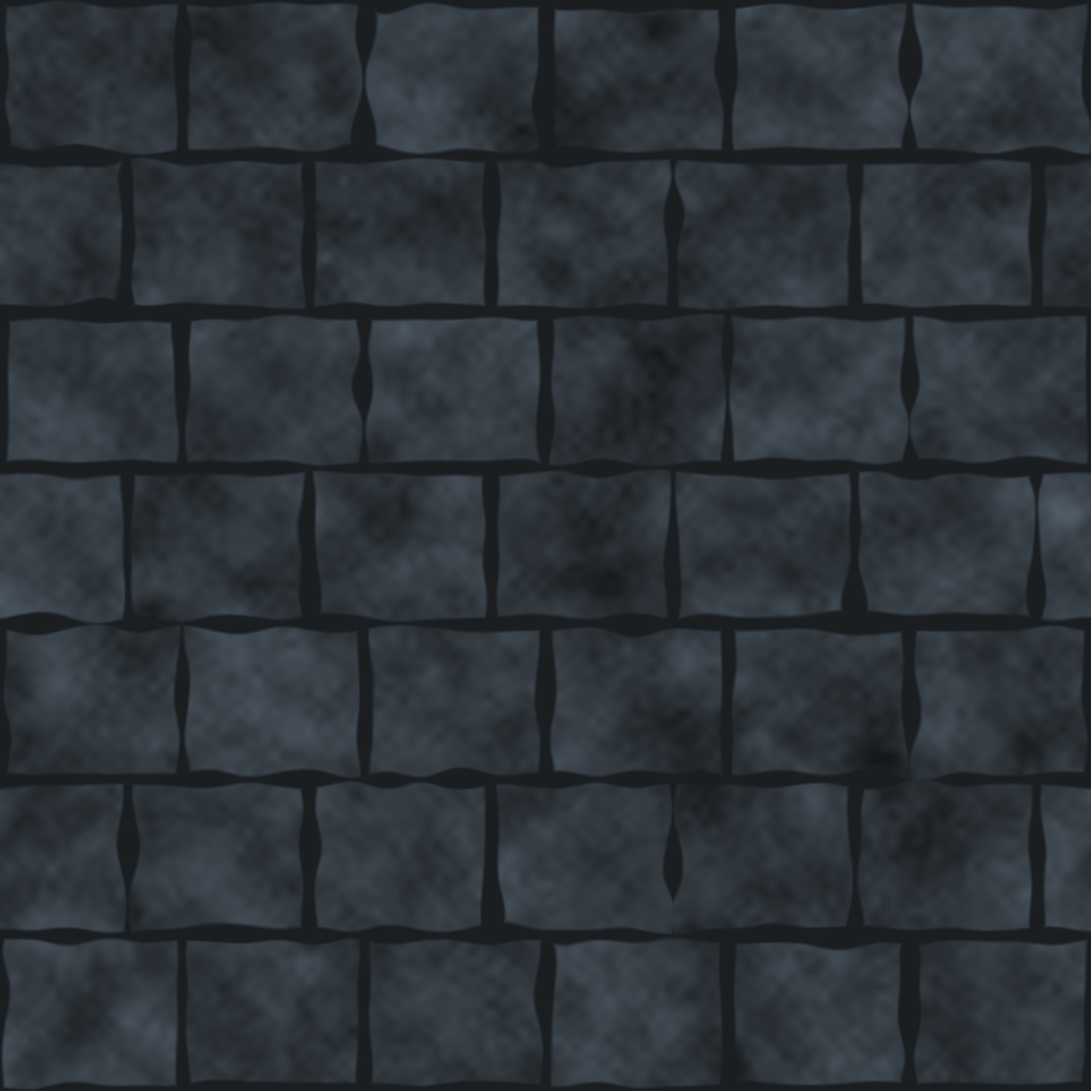
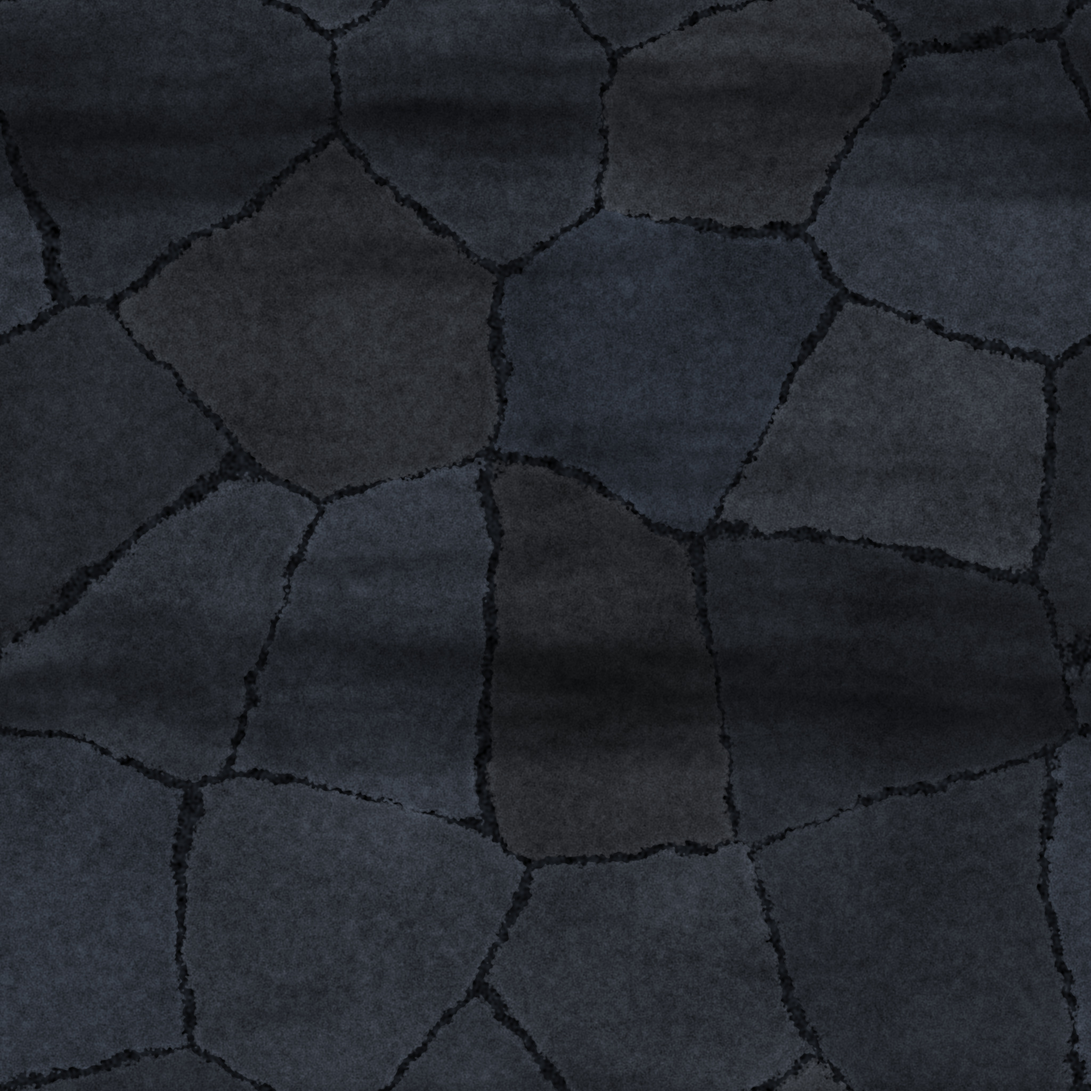
Gothic V3 : nouvelles textures de pierre (murs, sol, plafond) tileables à 4 u, avec leur générateur

diff --git a/tools/gen_gothic_textures.py b/tools/gen_gothic_textures.py
@@ -1,0 +1,247 @@
+#!/usr/bin/env python3
+"""Génère les textures PBR du thème gothic (V3) : wall / floor / ceil, en gothic_hd (2048) et gothic_lite (1024).
+
+Chaque tuile couvre exactement 4 × 4 unités (une case) et se raccorde à elle-même dans les deux sens : tout le bruit est périodique
+(spectre de Fourier) et la maçonnerie est calculée modulo la taille de la tuile.
+Albédo JPG (sRGB), normale PNG (OpenGL, Y+), ORM JPG (R = occlusion, G = rugosité, B = métal).
+
+Ce sont des textures PROCÉDURALES : elles remplacent les anciennes (grille de briques régulière, joints épais, raccord visible),
+mais elles ne remplacent pas un vrai travail de texturage manuel. Voir assets/themes/gothic_LISEZMOI.md.
+Usage : python3 tools/gen_gothic_textures.py [dossier_assets_themes]
+"""
+import sys
+import numpy as np
+from PIL import Image
+from scipy.ndimage import gaussian_filter
+
+N = 2048
+PPU = N / 4.0          # pixels par unité de jeu (une tuile = 4 u)
+
+
+def fbm(n, beta, seed, lo=1.0, hi=None, ax=1.0):
+    """Bruit périodique de spectre 1/f^beta, moyenne 0, écart-type 1. ax > 1 : structures étirées verticalement."""
+    rng = np.random.default_rng(seed)
+    fy = np.fft.fftfreq(n)[:, None] * n
+    fx = np.fft.rfftfreq(n)[None, :] * n * ax
+    f = np.sqrt(fx * fx + fy * fy)
+    amp = np.zeros_like(f)
+    ok = f >= lo
+    if hi is not None:
+        ok &= f <= hi
+    amp[ok] = f[ok] ** (-beta)
+    ph = rng.uniform(0, 2 * np.pi, f.shape)
+    out = np.fft.irfft2(amp * np.exp(1j * ph), s=(n, n))
+    out -= out.mean()
+    return (out / out.std()).astype(np.float32)
+
+
+def smooth(x, a=0.0, b=1.0):
+    t = np.clip((x - a) / (b - a), 0.0, 1.0)
+    return t * t * (3 - 2 * t)
+
+
+def course_edges(rng, total, lo, hi):
+    """Bords irréguliers sur un cercle de longueur total (somme exacte)."""
+    sizes = []
+    t = 0.0
+    while t < total:
+        s = rng.uniform(lo, hi)
+        sizes.append(s)
+        t += s
+    sizes = np.array(sizes) * total / sum(sizes)
+    return np.concatenate([[0.0], np.cumsum(sizes)[:-1]]), sizes
+
+
+def masonry(n, rng, wx, wy):
+    """Appareil de grosses pierres irrégulières. Renvoie (distance au bord, id de bloc, u, v dans le bloc)."""
+    ppu = n / 4.0
+    yy = (np.arange(n)[:, None] + wy) % n
+    xx = (np.arange(n)[None, :] + wx) % n
+    yy = np.broadcast_to(yy, (n, n)).astype(np.float32)
+    xx = np.broadcast_to(xx, (n, n)).astype(np.float32)
+    cedges, csizes = course_edges(rng, n, 0.40 * ppu, 0.66 * ppu)
+    dist = np.zeros((n, n), np.float32)
+    bid = np.zeros((n, n), np.int32)
+    bu = np.zeros((n, n), np.float32)
+    bv = np.zeros((n, n), np.float32)
+    ci = np.searchsorted(cedges, yy, side="right") - 1
+    counter = 0
+    for c in range(len(cedges)):
+        y0, y1 = cedges[c], cedges[c] + csizes[c]
+        be, _ = course_edges(rng, n, 0.80 * ppu, 1.70 * ppu)
+        be = np.sort((be + rng.uniform(0, n)) % n)
+        m = ci == c
+        x = xx[m]
+        y = yy[m]
+        bi = np.searchsorted(be, x, side="right") - 1
+        left = np.where(bi >= 0, be[np.clip(bi, 0, None)], be[-1] - n)
+        nxt = np.where(bi + 1 < len(be), be[np.clip(bi + 1, None, len(be) - 1)], be[0] + n)
+        d = np.minimum.reduce([x - left, nxt - x, y - y0, y1 - y])
+        dist[m] = d
+        bid[m] = counter + np.where(bi >= 0, bi, len(be) - 1)
+        bu[m] = (x - left) / np.maximum(nxt - left, 1)
+        bv[m] = (y - y0) / (y1 - y0)
+        counter += len(be)
+    return dist, bid, bu, bv, counter
+
+
+def voronoi(n, rng, g, wx, wy, jitter=0.38):
+    """Dalles irrégulières (cellules de Voronoï périodiques, g × g). Renvoie (distance au joint, id, u, v)."""
+    cs = n / g
+    pts = np.zeros((g, g, 2), np.float32)
+    for i in range(g):
+        for j in range(g):
+            pts[i, j] = ((j + 0.5 + rng.uniform(-jitter, jitter)) * cs, (i + 0.5 + rng.uniform(-jitter, jitter)) * cs)
+    yy = ((np.arange(n)[:, None] + wy) % n).astype(np.float32)
+    xx = ((np.arange(n)[None, :] + wx) % n).astype(np.float32)
+    yy = np.broadcast_to(yy, (n, n))
+    xx = np.broadcast_to(xx, (n, n))
+    ci = np.floor(yy / cs).astype(np.int32)
+    cj = np.floor(xx / cs).astype(np.int32)
+    f1 = np.full((n, n), 1e9, np.float32)
+    f2 = np.full((n, n), 1e9, np.float32)
+    idm = np.zeros((n, n), np.int32)
+    px = np.zeros((n, n), np.float32)
+    py = np.zeros((n, n), np.float32)
+    for di in (-2, -1, 0, 1, 2):
+        for dj in (-2, -1, 0, 1, 2):
+            ii = ci + di
+            jj = cj + dj
+            wxo = np.where(jj < 0, -n, np.where(jj >= g, n, 0)).astype(np.float32)
+            wyo = np.where(ii < 0, -n, np.where(ii >= g, n, 0)).astype(np.float32)
+            p = pts[ii % g, jj % g]
+            qx = p[..., 0] + wxo
+            qy = p[..., 1] + wyo
+            d = np.hypot(xx - qx, yy - qy)
+            better = d < f1
+            second = (~better) & (d < f2)
+            f2 = np.where(better, f1, np.where(second, d, f2))
+            idm = np.where(better, (ii % g) * g + (jj % g), idm)
+            px = np.where(better, qx, px)
+            py = np.where(better, qy, py)
+            f1 = np.where(better, d, f1)
+    dist = (f2 - f1) * 0.5
+    u = np.clip((xx - px) / cs * 0.5 + 0.5, 0, 1)
+    v = np.clip((yy - py) / cs * 0.5 + 0.5, 0, 1)
+    return dist.astype(np.float32), idm, u.astype(np.float32), v.astype(np.float32), g * g
+
+
+def per_block(rng, count, sd):
+    return rng.normal(0.0, sd, count).astype(np.float32)
+
+
+def down(a, k):
+    if k == 1:
+        return a
+    n = a.shape[0] // k
+    return a.reshape(n, k, n, k, *a.shape[2:]).mean(axis=(1, 3))
+
+
+def normal_map(h, strength, n):
+    hs = gaussian_filter(h, 0.7 * n / N, mode="wrap")
+    gx = (np.roll(hs, -1, 1) - np.roll(hs, 1, 1)) * 0.5
+    gr = (np.roll(hs, -1, 0) - np.roll(hs, 1, 0)) * 0.5
+    s = strength * n / N * (N / 2048.0)
+    nx = -gx * s
+    ny = gr * s       # OpenGL (Y+) : v vers le haut = lignes vers le haut de l'image
+    nz = np.ones_like(nx)
+    ln = np.sqrt(nx * nx + ny * ny + nz * nz)
+    out = np.stack([nx / ln, ny / ln, nz / ln], -1)
+    return ((out * 0.5 + 0.5) * 255).clip(0, 255).astype(np.uint8)
+
+
+def to_u8(a):
+    return (a.clip(0, 1) * 255 + 0.5).astype(np.uint8)
+
+
+def build(part, seed):
+    rng = np.random.default_rng(seed)
+    n = N
+    wlo = fbm(n, 1.6, seed + 1, lo=2, hi=40)
+    wx = wlo * 10.0 + fbm(n, 1.0, seed + 2, lo=20, hi=300) * 2.5
+    wy = fbm(n, 1.6, seed + 3, lo=2, hi=40) * 10.0 + fbm(n, 1.0, seed + 4, lo=20, hi=300) * 2.5
+    mid = fbm(n, 1.5, seed + 5, lo=3, hi=60)
+    fine = fbm(n, 1.0, seed + 6, lo=30, hi=260)
+    grain = fbm(n, 0.4, seed + 7, lo=100, hi=420)
+    streak = fbm(n, 1.6, seed + 8, lo=2, hi=60, ax=7.0)
+    crackn = fbm(n, 1.8, seed + 9, lo=2, hi=24)
+    crackm = fbm(n, 1.5, seed + 10, lo=2, hi=12)
+    speck = fbm(n, 0.2, seed + 12, lo=150, hi=500)
+    if part == "wall":
+        dist, bid, u, v, cnt = masonry(n, rng, wx, wy)
+        joint_half, bevel, relief, tilt_k = 4.6, 30.0, 0.55, 0.10
+        base, tone_sd, strength = np.array([0.238, 0.252, 0.272]), 0.16, 14.0
+    elif part == "floor":
+        dist, bid, u, v, cnt = voronoi(n, rng, 6, wx, wy)
+        joint_half, bevel, relief, tilt_k = 4.2, 26.0, 0.50, 0.08
+        base, tone_sd, strength = np.array([0.215, 0.228, 0.245]), 0.13, 11.0
+    else:
+        dist, bid, u, v, cnt = voronoi(n, rng, 4, wx, wy, jitter=0.42)
+        joint_half, bevel, relief, tilt_k = 7.0, 46.0, 0.95, 0.18
+        base, tone_sd, strength = np.array([0.165, 0.180, 0.205]), 0.15, 24.0
+    tone = np.clip(np.exp(per_block(rng, cnt, tone_sd)), 0.74, 1.12)
+    hue = per_block(rng, cnt, 0.035)
+    tiltx = per_block(rng, cnt, 1.0)
+    tilty = per_block(rng, cnt, 1.0)
+    dome = np.abs(per_block(rng, cnt, 0.5)) + 0.15
+    rgh = per_block(rng, cnt, 0.05)
+    t = tone[bid]
+    d = dist + mid * 2.8 + fine * 1.2          # bords ébréchés, non rectilignes
+    s = smooth(d, joint_half, joint_half + bevel)
+    edge_band = 1.0 - smooth(d, joint_half, joint_half + bevel * 0.35)
+    joint = 1.0 - smooth(d, joint_half - 1.6, joint_half + 1.6)
+    surf = (0.60 * mid + 0.10 * fine + 0.02 * grain) * relief
+    pits = np.clip(fine - 1.9, 0, None) * 0.22
+    tilt = (tiltx[bid] * (u - 0.5) + tilty[bid] * (v - 0.5)) * tilt_k
+    cracks = np.zeros_like(crackn)      # pas de fissures filiformes : elles se répètent en boucles peu crédibles
+    h = s ** 0.8 * 0.45 + surf * 0.18 * s + tilt * s - pits * s - cracks * 0.35
+    h = h * (1 - joint) + (grain * 0.01 - 0.02) * joint
+    h = h - h.min()
+    h /= h.max()
+    # albédo
+    col = base[None, None, :] * t[..., None]
+    col = col * np.stack([1 + hue[bid] * 0.7, np.ones_like(t), 1 - hue[bid] * 0.9], -1)
+    mott = 1.0 + 0.06 * mid + 0.075 * fine + 0.055 * grain + 0.05 * speck
+    mott *= 1.0 - 0.07 * np.clip(streak, 0, None)
+    col = col * mott[..., None]
+    col = col * (1.0 + 0.20 * edge_band * (s > 0.02))[..., None]
+    col = col * (1.0 - 0.55 * cracks)[..., None]
+    jc = np.array([0.075, 0.085, 0.100]) * (1.0 + 0.30 * fine[..., None])
+    col = col * (1 - joint[..., None]) + jc * joint[..., None]
+    ao = np.clip(1.0 - 3.0 * np.clip(gaussian_filter(h, 10, mode="wrap") - h, 0, None), 0.25, 1.0)
+    ao *= 1.0 - 0.55 * joint
+    rough = 0.80 + rgh[bid] + 0.07 * fine + 0.05 * grain
+    rough = rough * (1 - joint) + 0.97 * joint + 0.06 * edge_band
+    if part == "floor":
+        wet = smooth(fbm(n, 1.7, seed + 11, lo=2, hi=16), 0.55, 1.15)
+        col = col * (1 - 0.30 * wet)[..., None]
+        rough = rough - 0.34 * wet
+        h = h - 0.02 * wet
+    if part == "ceil":
+        col = col * (1.0 - 0.18 * np.clip(streak, 0, None))[..., None]
+    rough = np.clip(rough, 0.35, 1.0)
+    return col.clip(0, 1).astype(np.float32), h.astype(np.float32), ao.astype(np.float32), rough.astype(np.float32), strength
+
+
+def save(out_dir, part, res, k, data):
+    col, h, ao, rough, strength = data
+    n = N // k
+    albedo = down(col, k)
+    hh = down(h, k)
+    orm = np.stack([down(ao, k), down(rough, k), np.zeros((n, n), np.float32)], -1)
+    Image.fromarray(to_u8(albedo)).save(f"{out_dir}/gothic_{res}/{part}_albedo.jpg", quality=93, subsampling=0)
+    Image.fromarray(normal_map(hh, strength, n)).save(f"{out_dir}/gothic_{res}/{part}_normal.png", optimize=True)
+    Image.fromarray(to_u8(orm)).save(f"{out_dir}/gothic_{res}/{part}_orm.jpg", quality=95, subsampling=0)
+
+
+def main():
+    out = sys.argv[1] if len(sys.argv) > 1 else "assets/themes"
+    for i, part in enumerate(["wall", "floor", "ceil"]):
+        data = build(part, 1000 + 97 * i)
+        save(out, part, "hd", 1, data)
+        save(out, part, "lite", 2, data)
+        print(part, "ok")
+
+
+if __name__ == "__main__":
+    main()

diff --git a/assets/themes/gothic_LISEZMOI.md b/assets/themes/gothic_LISEZMOI.md
@@ -1,26 +1,34 @@
-# Thème « gothic » : textures à fournir
+# Thème « gothic » : textures (V3)
 
-Le thème `gothic` (Atlas Noir, test) fonctionne dès maintenant avec des matériaux **provisoires** dérivés de la pierre `stone`
-(niveaux de gris contrastés et teinte froide, voir `ThemeMaterials._gothic_derived`). Ce ne sont PAS les textures définitives.
-Dès que les dossiers ci-dessous existent, ils sont utilisés automatiquement à la place (aucun code à changer).
+Les 18 fichiers de `assets/themes/gothic_hd/` (2048 × 2048) et `assets/themes/gothic_lite/` (1024 × 1024) sont des textures **procédurales**,
+produites par `python3 tools/gen_gothic_textures.py` (reproductible : graines fixes). Elles remplacent le premier pack, qui avait une grille de briques
+parfaitement régulière (environ 0,5 × 0,2 u), des joints de 10 % de la surface, un bruit nuageux et un raccord horizontal visible.
 
-## Dossiers et fichiers attendus
+**Ce ne sont PAS des textures peintes ou scannées.** Elles sont nettement meilleures que le premier pack, mais un travail manuel (scan de pierre réelle ou
+sculpture de haute poly cuite en normales) reste la référence à atteindre (voir « Dépendance artistique » ci-dessous).
 
-`assets/themes/gothic_hd/` (2048 × 2048) et `assets/themes/gothic_lite/` (1024 × 1024), pour chaque `<part>` dans `wall`, `floor`, `ceil` :
+## Contenu et échelle
 
-| Fichier | Contenu |
+Une tuile = 4 × 4 u = une case (`GOTHIC_WALL_REPEAT` / `GOTHIC_FLOOR_REPEAT` / `GOTHIC_CEIL_REPEAT` = 1). Densité : 512 px/u (HD), 256 px/u (lite).
+Les UV vont de 0 à 1 par case : le raccord se fait aux bords de case, tout le bruit est périodique et les blocs sont calculés modulo la tuile.
+
+| Pièce | Contenu |
 |---|---|
-| `<part>_albedo.jpg` | couleur sans lumière ni ombre, sRGB |
-| `<part>_normal.png` | relief, OpenGL (Y+), espace tangent |
-| `<part>_orm.jpg` | R = occlusion, G = rugosité, B = métal (0 pour la pierre) |
+| `wall` | grosses pierres irrégulières (assises de 0,4 à 0,66 u, blocs de 0,8 à 1,7 u, décalés), joints fins (≈ 2 cm) creusés et ébréchés, teinte propre à chaque pierre |
+| `floor` | dalles irrégulières (Voronoï, 6 × 6 par tuile), anthracite plus foncé que les murs, taches d'humidité (rugosité 0,4 au lieu de 0,8) |
+| `ceil` | grandes pierres taillées grossièrement (4 × 4 par tuile), plus sombres, relief deux fois plus marqué, distinctes des murs |
 
-Soit 9 fichiers par dossier, 18 au total.
+Formats : albédo JPG (sRGB, sans lumière peinte), normale PNG OpenGL (Y+), ORM JPG (R = occlusion, G = rugosité, B = métal = 0).
 
-## Contraintes
+## Contrôles automatiques
 
-- Parfaitement **répétables** (aucun raccord visible en tuilage horizontal et vertical), 1 tuile = 1 case (4 u) ou un nombre entier de tuiles par case.
-- **Murs** : gros blocs anciens irréguliers, anthracite et gris froid, joints profonds.
-- **Sol** : dalles gris foncé, usure, variation discrète, humidité localisée (rugosité plus basse par endroits).
-- **Plafond** : pierres sombres, relief marqué, texture nettement distincte de celle des murs.
-- Couleurs peu saturées ; aucune ombre ni lumière peintes dans l'albédo.
-- Mêmes noms et mêmes dossiers `_hd` / `_lite` que les autres thèmes (le dossier `_lite` est exclu des exports de bureau).
+`tools/check_gothic.tscn` vérifie : tailles, raccord périodique (écart entre bords opposés comparé à l'écart entre pixels voisins), saturation faible,
+métal nul, rugosité 0,4 à 0,95, joints de 1 à 9 % de la surface du mur, ordre de luminosité mur > sol > plafond.
+
+## Dépendance artistique (non résolue)
+
+À produire à la main pour un résultat définitif, aux mêmes noms, tailles et dossiers (le jeu les prend automatiquement) :
+- `wall` : pierre réelle à grain fin, avec fissures et épaufrures propres à chaque bloc (le bruit procédural n'a pas de logique de taille de pierre) ;
+- `floor` : dalles usées par le passage, joints comblés de terre, rugosité peinte à la main ;
+- `ceil` : voûte en moellons ou en briques, variante moussue.
+Variantes utiles : une seconde tuile de mur (usée / humide) pour casser la répétition par case, qui existe encore (toutes les cases de mur sont identiques, seule la teinte varie).
